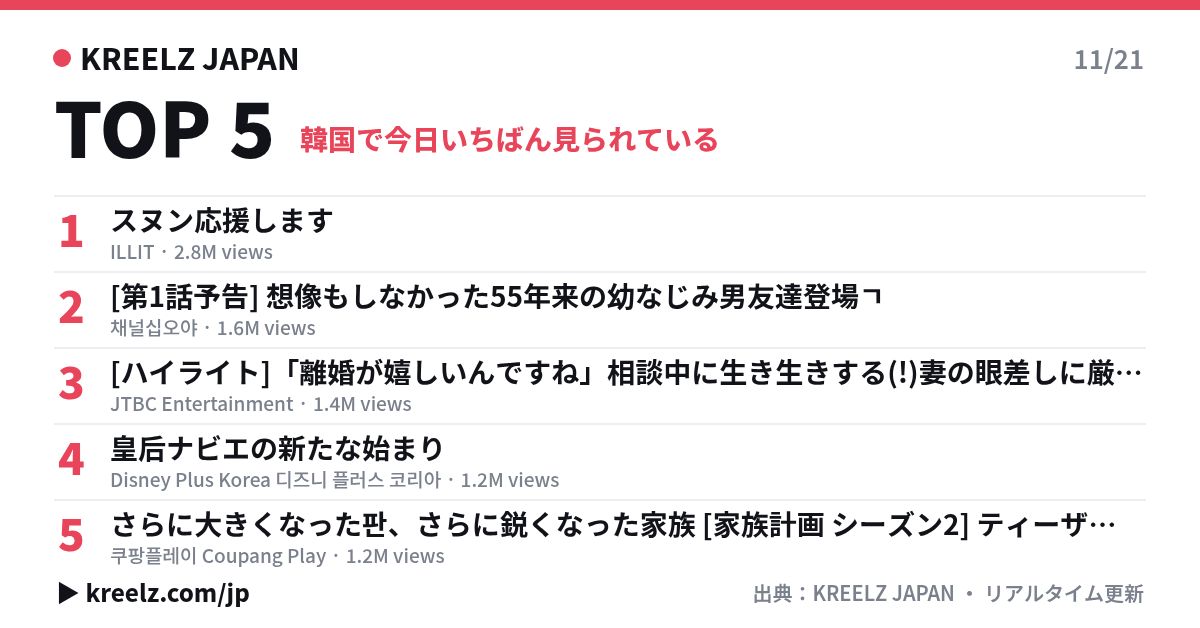
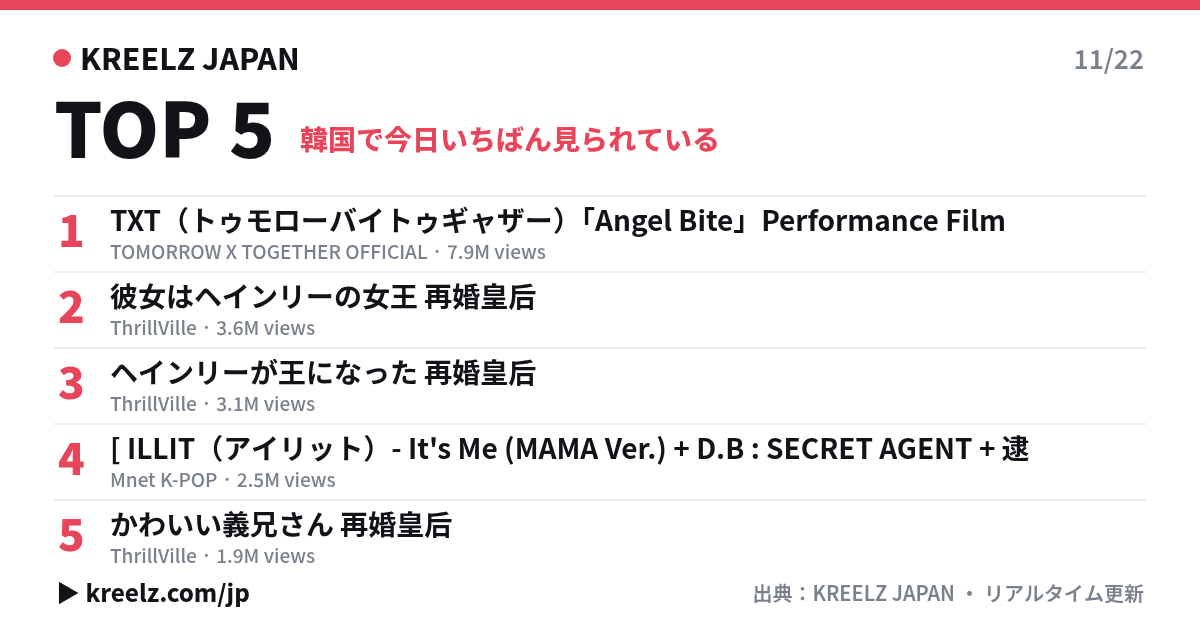
X TOP5 card for 2026-11-22

diff --git a/jp/top5/index.html b/jp/top5/index.html
@@ -1,11 +1,11 @@
 <!doctype html><html lang="ja"><head><meta charset="utf-8">
-<meta name="viewport" content="width=device-width,initial-scale=1"><title>韓国で今日いちばん見られているK動画 TOP5（11/21） | KREELZ JAPAN</title>
-<meta name="description" content="1. スヌン応援します / 2. [第1話予告] 想像もしなかった55年来の幼なじみ男友達登場ㄱ / 3. [ハイライト]「離婚が嬉しいんですね」相談中に生き生きする(!)妻の眼差しに厳しい正論をぶつけたイ・ホソン / 4. 皇后ナビエの新たな始まり / 5. さらに大きくなった판、さらに鋭くなった家族 [家族計画 シーズン2] ティーザー予告編"><link rel="canonical" href="https://kreelz.com/jp/">
+<meta name="viewport" content="width=device-width,initial-scale=1"><title>韓国で今日いちばん見られているK動画 TOP5（11/22） | KREELZ JAPAN</title>
+<meta name="description" content="1. TXT（トゥモローバイトゥギャザー）「Angel Bite」Performance Film / 2. 彼女はヘインリーの女王 再婚皇后 / 3. ヘインリーが王になった 再婚皇后 / 4. [ ILLIT（アイリット）- It's Me (MAMA Ver.) + D.B : SECRET AGENT + 逮 / 5. かわいい義兄さん 再婚皇后"><link rel="canonical" href="https://kreelz.com/jp/">
 <meta property="og:type" content="website"><meta property="og:site_name" content="KREELZ JAPAN"><meta property="og:locale" content="ja_JP">
-<meta property="og:title" content="韓国で今日いちばん見られているK動画 TOP5（11/21）"><meta property="og:description" content="1. スヌン応援します / 2. [第1話予告] 想像もしなかった55年来の幼なじみ男友達登場ㄱ / 3. [ハイライト]「離婚が嬉しいんですね」相談中に生き生きする(!)妻の眼差しに厳しい正論をぶつけたイ・ホソン / 4. 皇后ナビエの新たな始まり / 5. さらに大きくなった판、さらに鋭くなった家族 [家族計画 シーズン2] ティーザー予告編">
-<meta property="og:url" content="https://kreelz.com/jp/top5/"><meta property="og:image" content="https://kreelz.com/jp/top5.png?v=20261121">
+<meta property="og:title" content="韓国で今日いちばん見られているK動画 TOP5（11/22）"><meta property="og:description" content="1. TXT（トゥモローバイトゥギャザー）「Angel Bite」Performance Film / 2. 彼女はヘインリーの女王 再婚皇后 / 3. ヘインリーが王になった 再婚皇后 / 4. [ ILLIT（アイリット）- It's Me (MAMA Ver.) + D.B : SECRET AGENT + 逮 / 5. かわいい義兄さん 再婚皇后">
+<meta property="og:url" content="https://kreelz.com/jp/top5/"><meta property="og:image" content="https://kreelz.com/jp/top5.png?v=20261122">
 <meta property="og:image:width" content="1200"><meta property="og:image:height" content="628">
-<meta name="twitter:card" content="summary_large_image"><meta name="twitter:title" content="韓国で今日いちばん見られているK動画 TOP5（11/21）">
-<meta name="twitter:description" content="1. スヌン応援します / 2. [第1話予告] 想像もしなかった55年来の幼なじみ男友達登場ㄱ / 3. [ハイライト]「離婚が嬉しいんですね」相談中に生き生きする(!)妻の眼差しに厳しい正論をぶつけたイ・ホソン / 4. 皇后ナビエの新たな始まり / 5. さらに大きくなった판、さらに鋭くなった家族 [家族計画 シーズン2] ティーザー予告編"><meta name="twitter:image" content="https://kreelz.com/jp/top5.png?v=20261121">
+<meta name="twitter:card" content="summary_large_image"><meta name="twitter:title" content="韓国で今日いちばん見られているK動画 TOP5（11/22）">
+<meta name="twitter:description" content="1. TXT（トゥモローバイトゥギャザー）「Angel Bite」Performance Film / 2. 彼女はヘインリーの女王 再婚皇后 / 3. ヘインリーが王になった 再婚皇后 / 4. [ ILLIT（アイリット）- It's Me (MAMA Ver.) + D.B : SECRET AGENT + 逮 / 5. かわいい義兄さん 再婚皇后"><meta name="twitter:image" content="https://kreelz.com/jp/top5.png?v=20261122">
 <meta name="robots" content="noindex,follow"><meta http-equiv="refresh" content="0;url=/jp/">
-</head><body><p><a href="/jp/">KREELZ JAPAN — 韓国で今日いちばん見られているK動画 TOP5（11/21）</a></p><script>location.replace("/jp/")</script></body></html>
+</head><body><p><a href="/jp/">KREELZ JAPAN — 韓国で今日いちばん見られているK動画 TOP5（11/22）</a></p><script>location.replace("/jp/")</script></body></html>
